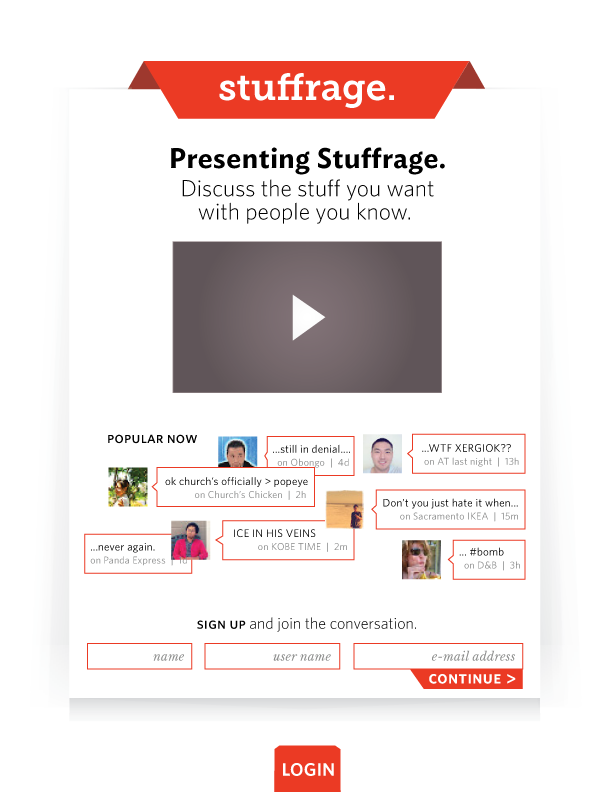
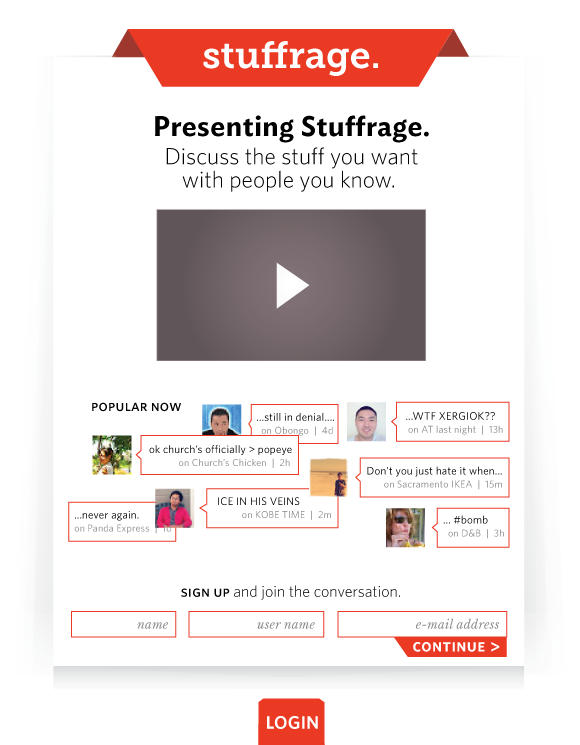
3 projects work (not responsive)

diff --git a/index2.html b/index2.html
@@ -1,4 +1,7 @@
 <!DOCTYPE html>
+
+<!-- portfolio website written by Jack Leng with JQuery, Snap.svg and Slimbox2  !-->
+
 <html lang="en">
 <head>
   <meta charset="UTF-8">
@@ -12,10 +15,15 @@
 	<link href='http://fonts.googleapis.com/css?family=Ropa+Sans' rel='stylesheet' type='text/css'>
 	<link href='http://fonts.googleapis.com/css?family=Roboto:500,300,400,700' rel='stylesheet' type='text/css'>
 
-  <!-- modular stylesheets for individual item styling !-->
+  <!-- project stylesheets for individual item styles !-->
   <link rel = "stylesheet" href="css/180.css" media="screen" type="text/css" />
   <link rel = "stylesheet" href="css/stuffrage.css" media="screen" type="text/css" />
   <link rel = "stylesheet" href="css/walmart.css" media="screen" type="text/css" />
+  <link rel = "stylesheet" href="css/tempr.css" media="screen" type="text/css" />
+  <link rel = "stylesheet" href="css/sos.css" media="screen" type="text/css" />
+  <link rel = "stylesheet" href="css/fnric.css" media="screen" type="text/css" />
+  <link rel = "stylesheet" href="css/eclipse.css" media="screen" type="text/css" />
+  <link rel = "stylesheet" href="css/seseme.css" media="screen" type="text/css" />
 
 </head>
 <body>
@@ -47,7 +55,7 @@
   <source src="assets/about/mebw.flv" type = "video/flv" />
   <source src="assets/about/mebw.mov" type = "video/quicktime" />
   <source src="assets/about/mebw.mp4" type="video/mp4" />
-  <img src = "assets/about/backup.png" title = "HTML5 video won't work in your browser, so here's a pic of me instead." alt = "jack leng" />
+  <img src = "assets/about/backup.png" title = "HTML5 video won't work in your browser, so here's an image of me instead." alt = "jack leng" />
 </video>
 
 </figure><div id = "abouttext"> I <a id = "int" href = "#interactive">design and code interfaces</a>, <a id = "model" href = "#3d">model in 3 dimensions</a>, <a id = "ill" href = "#illustration">illustrate in 2</a>, and <a id = "anim" href = "#animation">animate</a>. <br>I'm at my happiest when I get to do many things for one project. <br> I play basketball whenever I can and I'm passionate about video games.</div> 
@@ -56,11 +64,10 @@
 
   <section id = "portfolio">
 
-<!-- CONTENT ADDITION: a new article with 1. specific title 2. filtration categories for classes
+<!-- MODULAR CONTENT ADDITION: a new article with 1. specific title 2. filtration categories for classes
       - divs class quad0-x with "x,y" data-dimension attribute
       - even numbered quads are floated left, odd numbered quads are floated right
-      - total dimensions should add up to 98, 98
-      - quad0 is always the title image (specific styling)....2nd child div of article is named title (?)
+      - quad0 is always the title image (specific styling)....title and text classes for text divs
   !-->
 
     <article class = "seseme interactive 3d" data-sort="8" data-itemheight="800">
@@ -117,7 +124,7 @@
        
       </div>
       <div class = "quad3" data-dimension = "670,360"></div>
-      <div class = "quad4 title text" data-dimension = "670,215">180A: UC Davis Art Museum Design
+      <div class = "quad4 title text" data-dimension = "670,215">180A: Art Museum Design
          <p>
         Art museum design proposal & renderings, for institutional interior architecture class project. The design is formed from the intersection of a 30-60-90 and an equilateral triangle, with large columns functioning as structural support, marker of progress through the space, and solar chimneys. </p>
         <p>Renders created with Mental Ray and Photoshop. </p> <span class = "exit"> back to index &nbsp;<img src = "assets/index.svg" /></span>   </div>
@@ -129,13 +136,23 @@
       <div class = "quad10" data-dimension = "1350,260"></div>
      
     </article>
-    <article class = "stuffrage interactive animation illustration" data-sort="2" data-itemheight = "800">
+    <article class = "stuffrage interactive animation illustration" data-sort="2" data-itemheight = "900">
       <div class = "quad0" data-dimension = "900,507">
-        <iframe src="http://player.vimeo.com/video/63406830?title=0&amp;byline=0&amp;portrait=0&amp;color=ea3c24" width="900" height="507" frameborder="0" webkitallowfullscreen="" mozallowfullscreen="" allowfullscreen=""></iframe>
+        <iframe src="http://player.vimeo.com/video/63406830?title=0&amp;byline=0&amp;portrait=0&amp;color=ffffff" width="900" height="507" frameborder="0" webkitallowfullscreen="" mozallowfullscreen="" allowfullscreen=""></iframe> 
       </div>
-      <div class = "quad1 title text" data-dimension = "49,49">Stuffrage UI and Animation</div>
-      <div class = "quad2" data-dimension = "49,49">two</div>
-      <div class = "quad3" data-dimension = "49,49">three</div>
+      <div class = "quad1" data-dimension = "400,120">
+        <p>
+      </div>
+      <div class = "quad2 title text" data-dimension = "440,170">Stuffrage UI and Animation
+        <p>
+          Promotional animation and UI prototypes for a now-defunct social goods/services reviews startup.
+        </p>
+        <span class = "exit"> back to index &nbsp;<img src = "assets/index.svg" /></span>
+      </div>
+      <div class = "quad3" data-dimension = "400,515"></div>
+      <div class = "quad4" data-dimension = "292,315"></div>
+      <div class = "quad5" data-dimension = "640,350"></div>
+  
     </article>
 
 
@@ -158,7 +175,7 @@
      
    <div class = "quad2 title text" data-dimension  = "570,305"> 37: Black Friday Simulator
         <p>
-          An interactive Processing sketch, created for an intro class in my second year.  Inspired by videos captured from various Wal-Marts on Black Friday, stories of Foxconn (Chinese manufacturer of electronic goods) workers commiting suicide, and the game design work of Jonatan Söderström (Hotline Miami, Norrland). Click to create goods and generate demand - consumers consume, workers work harder. </p><p> Try it here (running on processing.js). 
+          An interactive faux-simulation, created for an intro to Processing class in my second year.  Inspired by videos captured from various Wal-Marts on Black Friday, stories of Foxconn (Chinese manufacturer of electronic goods) workers commiting suicide, and the game design work of Jonatan Söderström (Hotline Miami, Norrland). Click to create goods and generate demand - consumers consume, workers work harder. </p><p> Try it here (running on processing.js). 
         </p>
 
         <span class = "exit"> back to index &nbsp;<img src = "assets/index.svg" /></span> 

diff --git a/css/stuffrage.css b/css/stuffrage.css
@@ -1,9 +1,23 @@
 .stuffrage .quad0 {
 	background-image: url(../assets/stuffragethumb.png);
 }
+
+.stuffrage .quad0.expanded{
+	background: none;
+}
 iframe{
 	display: none;
 }
 .expanded iframe{
 	display: block;
+}
+
+.stuffrage .quad3 {
+	background-image: url(../assets/stuffrage/landing_small.png);
+}
+.stuffrage .quad4 {
+	background-image: url(../assets/stuffrage/mockup9_small.png);
+}
+.stuffrage .quad5 {
+	background-image: url(../assets/stuffrage/mockup6_small.png);
 }

diff --git a/css/180.css b/css/180.css
@@ -4,7 +4,11 @@
 	background-position: center;
 }
 
-.museum .quad0{
+.museum .quad0 {
+	background-image: url(../assets/180thumb3.png);
+}
+
+.museum .quad0.expanded{
 	background-image: url(../assets/180/oculus_small.png);
 }
 

diff --git a/css/eclipse.css b/css/eclipse.css
@@ -1,0 +1,3 @@
+.eclipse .quad0 {
+	background-image: url(../assets/eclipsethumb3.png);
+}

diff --git a/css/fnric.css b/css/fnric.css
@@ -1,0 +1,4 @@
+
+.fnric .quad0 {
+	background-image: url(../assets/fnricthumb.png);
+}

diff --git a/css/seseme.css b/css/seseme.css
@@ -1,0 +1,3 @@
+.seseme .quad0 {
+	background-image: url(../assets/sesemethumb.png);
+}

diff --git a/css/tempr.css b/css/tempr.css
@@ -1,0 +1,4 @@
+
+.tempr .quad0 {
+	background-image: url(../assets/temprthumb.png);
+}

diff --git a/css/sos.css b/css/sos.css
@@ -1,0 +1,4 @@
+
+.sos .quad0 {
+	background-image: url(../assets/sosthumb.png);
+}
